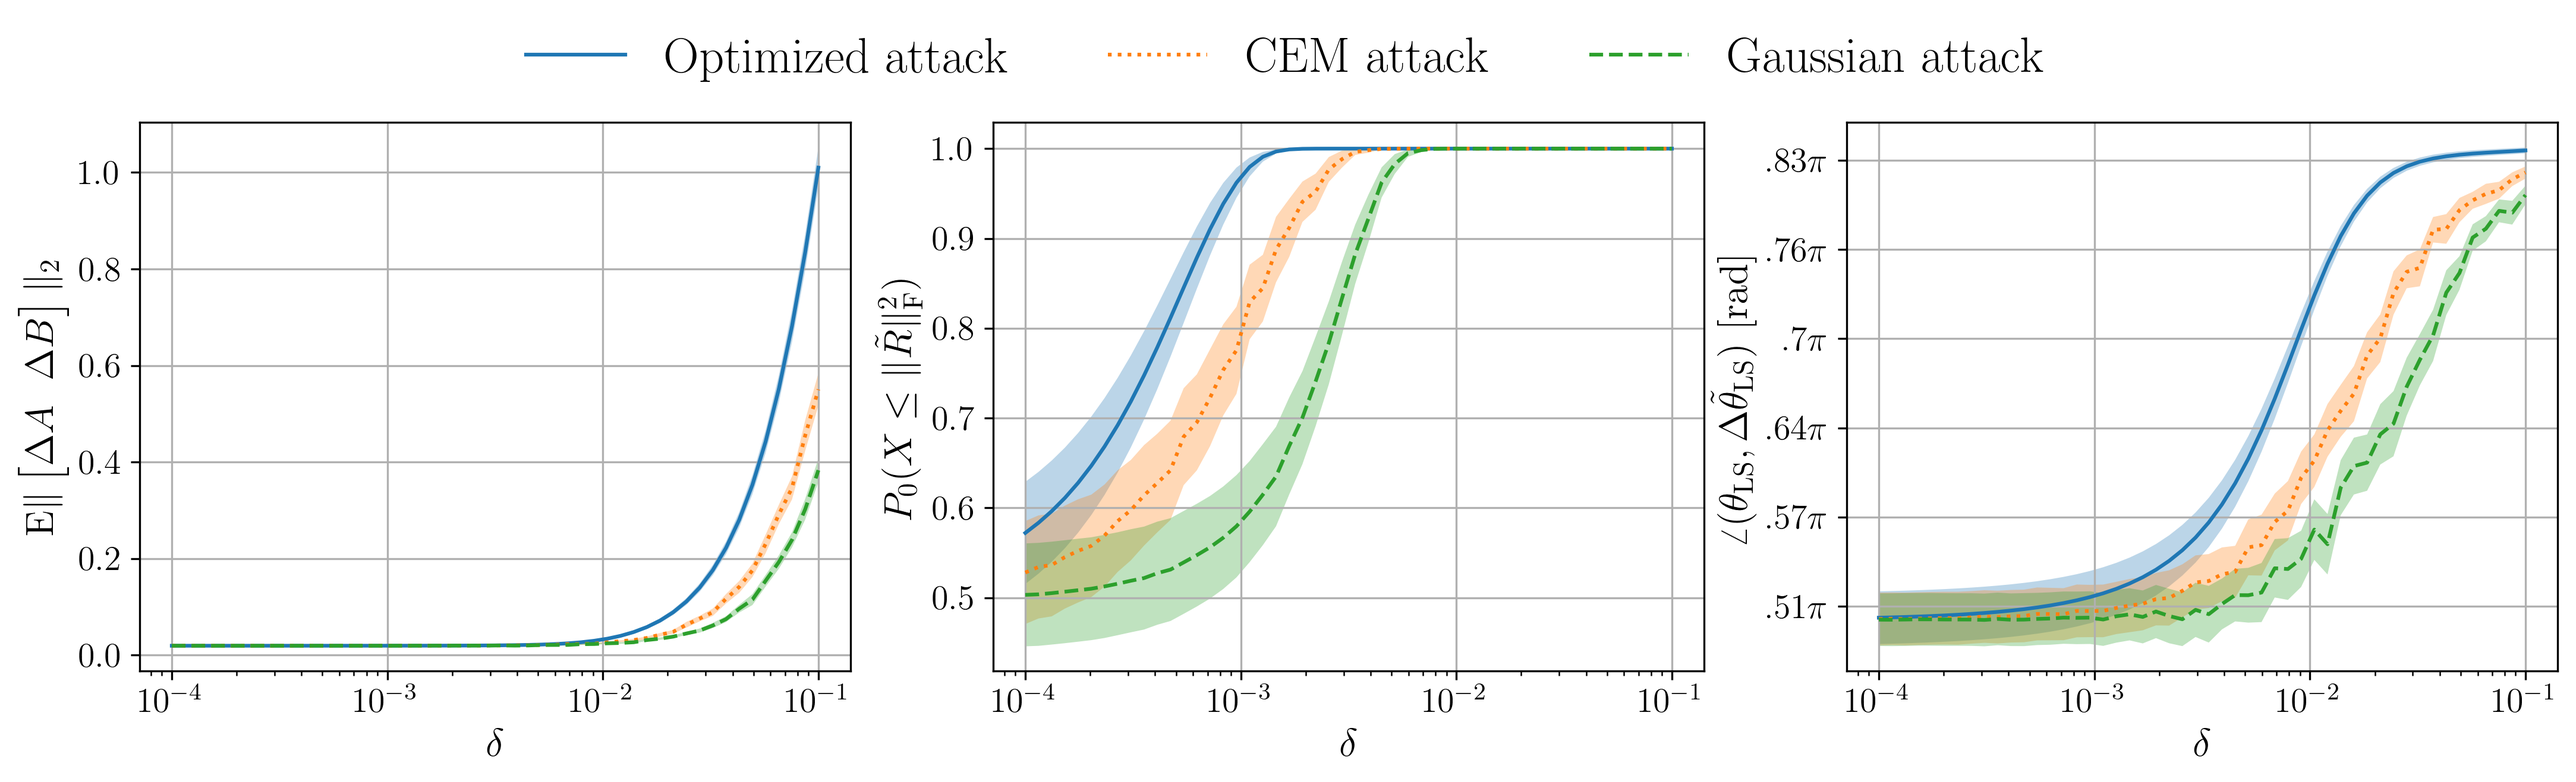
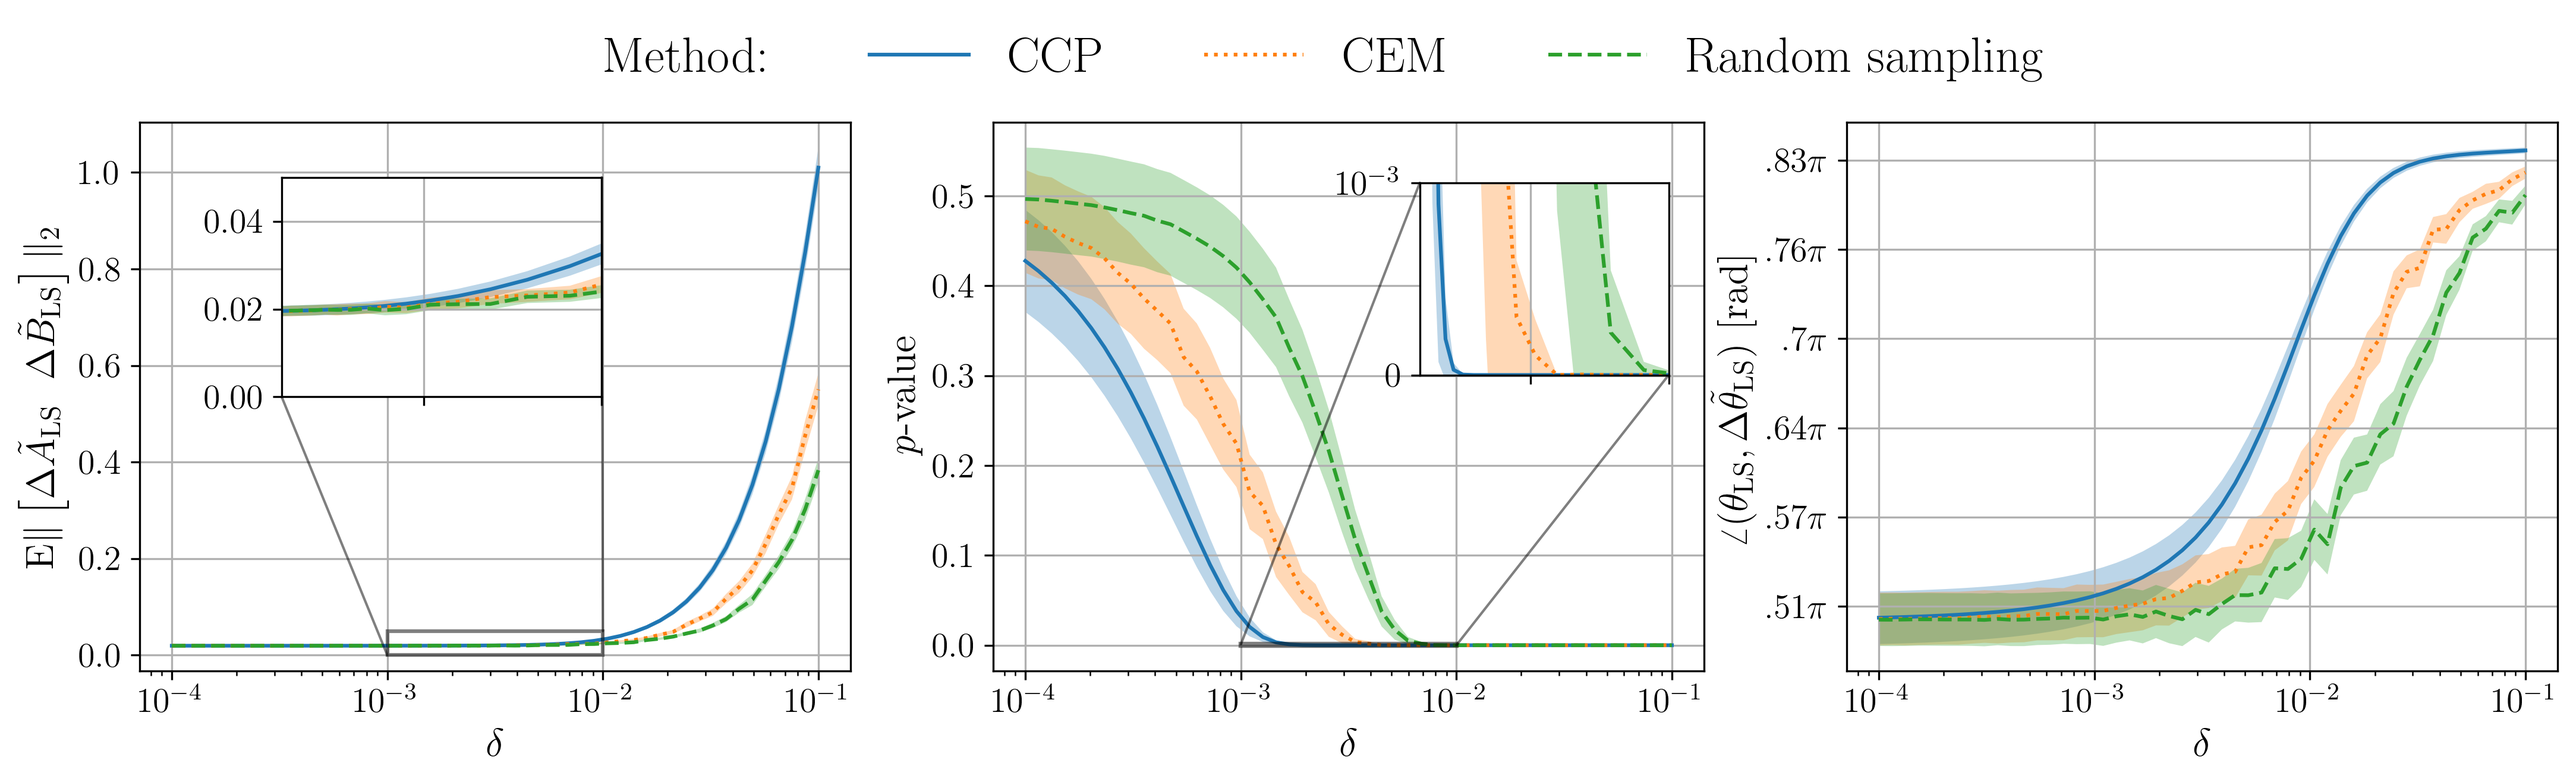
update plots

diff --git a/example_residuals_maximization/plot_data.py b/example_residuals_maximization/plot_data.py
@@ -1,6 +1,7 @@
 import matplotlib.pyplot as plt
 import matplotlib as mpl
 import numpy as np
+import matplotlib.ticker as mtick
 from typing import List, Tuple
 from utils import ResultsData, residuals_variance_test, confidence_interval_signal
 TITLE_SIZE = 20
@@ -101,44 +102,97 @@ impact_optimal_mean, impact_optimal_lower, impact_optimal_upper = confidence_int
 impact_gaussian_mean, impact_gaussian_lower, impact_gaussian_upper = confidence_interval_signal(gauss_poisoned_delta_norm, N_SIMS)
 impact_cem_mean, impact_cem_lower, impact_cem_upper = confidence_interval_signal(cem_poisoned_delta_norm, N_SIMS)
 
-ax[0].plot(deltas, impact_optimal_mean, label='Optimized attack')
+ax[0].plot(deltas, impact_optimal_mean, label='CCP')
 ax[0].fill_between(deltas, impact_optimal_lower, impact_optimal_upper, alpha=0.3)
-ax[0].plot(deltas, impact_cem_mean, ':', label='CEM attack')
+ax[0].plot(deltas, impact_cem_mean, ':', label='CEM')
 ax[0].fill_between(deltas, impact_cem_lower, impact_cem_upper, alpha=0.3)
-ax[0].plot(deltas, impact_gaussian_mean, '--', label='Gaussian attack')
+ax[0].plot(deltas, impact_gaussian_mean, '--', label='Random sampling')
 ax[0].fill_between(deltas, impact_gaussian_lower, impact_gaussian_upper, alpha=0.3)
 
 ax[0].grid()
 ax[0].set_xscale('log')
 ax[0].set_xlabel(r'$\delta$')
-ax[0].set_ylabel(r"$\mathrm{E}\|\begin{bmatrix} \Delta A & \Delta B \end{bmatrix}\|_2$")
+ax[0].set_ylabel(r"$\mathrm{E}\|\begin{bmatrix} \Delta \tilde A_{\textrm{LS}} & \Delta \tilde B_{\textrm{LS}}\end{bmatrix}\|_2$")
 
-resvar_optimal_mean, resvar_optimal_lower, resvar_optimal_upper = confidence_interval_signal(opt_poisoned_delta_test, N_SIMS)
-resvar_gaussian_mean, resvar_gaussian_lower, resvar_gaussian_upper = confidence_interval_signal(gauss_poisoned_delta_test, N_SIMS)
-resvar_cem_mean, resvar_cem_lower, resvar_cem_upper = confidence_interval_signal(cem_poisoned_delta_test, N_SIMS)
+# inset axes
+axins = ax[0].inset_axes([0.2, 0.5, 0.45, 0.4], transform=ax[0].transAxes)
+axins.plot(deltas, impact_optimal_mean, label='CCP')
+axins.fill_between(deltas, impact_optimal_lower, impact_optimal_upper, alpha=0.3)
+axins.plot(deltas, impact_cem_mean, ':', label='CEM')
+axins.fill_between(deltas, impact_cem_lower, impact_cem_upper, alpha=0.3)
+axins.plot(deltas, impact_gaussian_mean, '--', label='Random sampling')
+axins.fill_between(deltas, impact_gaussian_lower, impact_gaussian_upper, alpha=0.3)
 
-ax[1].plot(deltas, resvar_optimal_mean, label='Optimized attack')
+# sub region of the original image
+axins.set_xlim(1e-3, 1e-2)
+axins.set_ylim(0, 0.05)
+axins.grid()
+axins.set_xticklabels([])
+# yticks = axins.get_yticks()
+# axins.set_yticklabels(["{:.1e}".format(x) for x in yticks])
+
+# axins.ticklabel_format(axis='y', style='sci')
+
+ax[0].indicate_inset_zoom(axins, edgecolor="black", linewidth=1.5)
+
+
+
+
+
+
+
+
+
+resvar_optimal_mean, resvar_optimal_lower, resvar_optimal_upper = confidence_interval_signal(1-opt_poisoned_delta_test, N_SIMS)
+resvar_gaussian_mean, resvar_gaussian_lower, resvar_gaussian_upper = confidence_interval_signal(1-gauss_poisoned_delta_test, N_SIMS)
+resvar_cem_mean, resvar_cem_lower, resvar_cem_upper = confidence_interval_signal(1-cem_poisoned_delta_test, N_SIMS)
+
+ax[1].plot(deltas, resvar_optimal_mean, label='CCP')
 ax[1].fill_between(deltas, resvar_optimal_lower, resvar_optimal_upper, alpha=0.3)
-ax[1].plot(deltas, resvar_cem_mean, ':', label='CEM attack')
+ax[1].plot(deltas, resvar_cem_mean, ':', label='CEM')
 ax[1].fill_between(deltas, resvar_cem_lower, resvar_cem_upper, alpha=0.3)
-ax[1].plot(deltas, resvar_gaussian_mean, '--', label='Gaussian attack')
+ax[1].plot(deltas, resvar_gaussian_mean, '--', label='Random sampling')
 ax[1].fill_between(deltas, resvar_gaussian_lower, resvar_gaussian_upper, alpha=0.3)
 
 ax[1].grid()
 ax[1].set_xlabel(r'$\delta$')
-ax[1].set_ylabel(r'$P_0(X\leq  \|\tilde R\|_{\textnormal{F}}^2 )$')
+ax[1].set_ylabel(r'$p$-value')
 ax[1].set_xscale('log')
+
+# inset axes
+axins = ax[1].inset_axes([0.6, 0.54, 0.35, 0.35], transform=ax[1].transAxes)
+
+axins.plot(deltas, resvar_optimal_mean, label='CCP')
+axins.fill_between(deltas, resvar_optimal_lower, resvar_optimal_upper, alpha=0.3)
+axins.plot(deltas, resvar_cem_mean, ':', label='CEM')
+axins.fill_between(deltas, resvar_cem_lower, resvar_cem_upper, alpha=0.3)
+axins.plot(deltas, resvar_gaussian_mean, '--', label='Random sampling')
+axins.fill_between(deltas, resvar_gaussian_lower, resvar_gaussian_upper, alpha=0.3)
+
+# sub region of the original image
+axins.set_xlim(1e-3, 1e-2)
+axins.set_ylim(0, 1e-3)
+axins.set_yscale('symlog')
+axins.grid()
+axins.set_xticklabels([])
+# yticks = axins.get_yticks()
+# axins.set_yticklabels(["{:.1e}".format(x) for x in yticks])
+
+# axins.ticklabel_format(axis='y', style='sci')
+
+ax[1].indicate_inset_zoom(axins, edgecolor="black",linewidth=2)
+
 
 
 dot_optimal_mean, dot_optimal_lower, dot_optimal_upper = confidence_interval_signal(opt_poisoned_delta_dot, N_SIMS)
 dot_gaussian_mean, dot_gaussian_lower, dot_gaussian_upper = confidence_interval_signal(gauss_poisoned_delta_dot, N_SIMS)
 dot_cem_mean, dot_cem_lower, dot_cem_upper = confidence_interval_signal(cem_poisoned_delta_dot, N_SIMS)
 
-ax[2].plot(deltas, dot_optimal_mean, label='Optimized attack')
+ax[2].plot(deltas, dot_optimal_mean, label='CCP')
 ax[2].fill_between(deltas, dot_optimal_lower, dot_optimal_upper, alpha=0.3)
-ax[2].plot(deltas, dot_cem_mean, ':', label='CEM attack')
+ax[2].plot(deltas, dot_cem_mean, ':', label='CEM')
 ax[2].fill_between(deltas, dot_cem_lower, dot_cem_upper, alpha=0.3)
-ax[2].plot(deltas, dot_gaussian_mean, '--', label='Gaussian attack')
+ax[2].plot(deltas, dot_gaussian_mean, '--', label='Random sampling')
 ax[2].fill_between(deltas, dot_gaussian_lower, dot_gaussian_upper, alpha=0.3)
 
 ax[2].grid()
@@ -150,6 +204,11 @@ print([r"$." + str(round(r/np.pi,2))[2:]+ r"\pi$" for r in ax[2].get_yticks()])
 ax[2].set_yticklabels([r"$." + str(round(r/np.pi,2))[2:]+ r"\pi$" for r in ax[2].get_yticks()])
 
 
-plt.legend(bbox_to_anchor=(0.750, 0.875), loc="lower right",
-                bbox_transform=fig.transFigure, ncol=3, frameon=False)
-plt.savefig('figures/example_residuals_variance.pdf',bbox_inches='tight',dpi=300)
+h, l = ax[0].get_legend_handles_labels() # Extracting handles and labels
+ph = [plt.plot([],marker="", ls="")[0]] # Canvas
+handles = ph + h
+labels = ["Method:"] + l  # Merging labels
+
+plt.legend(handles, labels, bbox_to_anchor=(0.750, 0.875), loc="lower right",
+                bbox_transform=fig.transFigure, ncol=4, frameon=False)
+plt.savefig('figures/example_residuals_variance.png',bbox_inches='tight',dpi=300)
